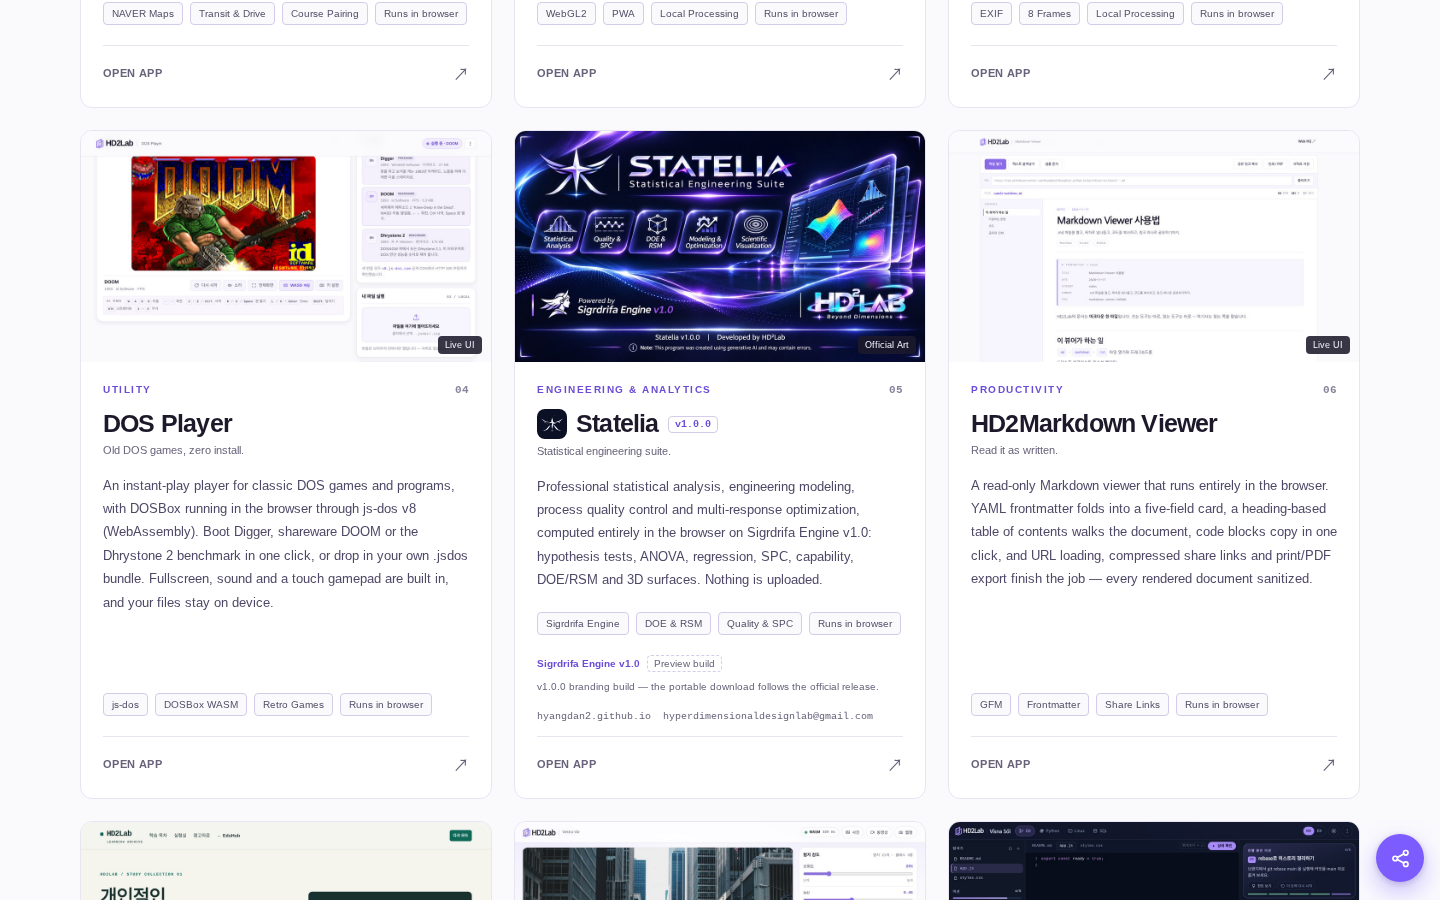
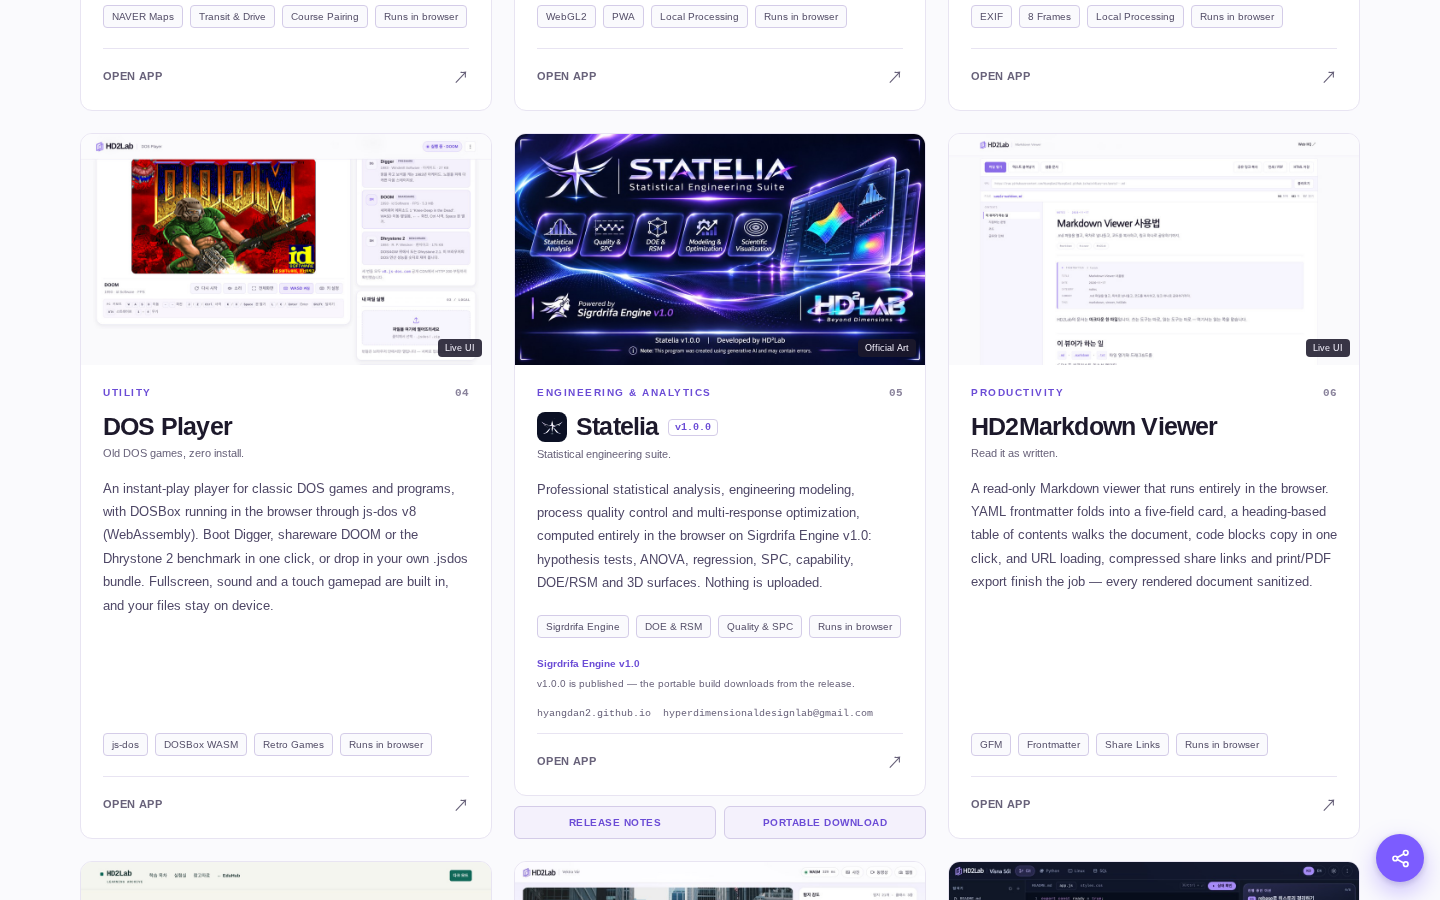
catalog: publish Statelia v1.0.0 as a stable release
The release exists (tag v1.0.0), so the card stops saying 'Preview build' and
links what is actually published: the release notes and the portable ZIP.

An entry with releaseUrl/downloadUrl gets a .card-actions row beside the card —
the card stays one <a>, so nothing is nested — and the eleven entries without
those fields render exactly as before.

diff --git a/tests/browser/hub.spec.js b/tests/browser/hub.spec.js
@@ -38,6 +38,25 @@ test('the card itself is the link and no separate action button remains', async 
   await expect(page).toHaveURL(published[0].launchUrl);
 });
 
+test('a stable release offers its artefacts beside the card, never inside it', async ({ page }) => {
+  await ready(page);
+  const offering = published.filter(app => app.releaseUrl || app.downloadUrl);
+  expect(offering.length).toBeGreaterThan(0);
+  for (const app of offering) {
+    const card = page.locator(`a.app-card[data-app="${app.id}"]`);
+    await expect(card).toHaveCount(1);
+    await expect(card.locator('a')).toHaveCount(0);
+    const shell = page.locator('.card-shell').filter({ has: card });
+    await expect(shell).toHaveCount(1);
+    const actions = shell.locator('.card-action');
+    await expect(actions).toHaveCount((app.releaseUrl ? 1 : 0) + (app.downloadUrl ? 1 : 0));
+    if (app.releaseUrl) await expect(shell.getByRole('link', { name: 'Release notes' })).toHaveAttribute('href', app.releaseUrl);
+    if (app.downloadUrl) await expect(shell.getByRole('link', { name: 'Portable download' })).toHaveAttribute('href', app.downloadUrl);
+  }
+  const statelia = page.locator('.card-shell');
+  await expect(statelia.locator('.app-card[data-app="statelia"] .card-release')).toContainText('v1.0.0 is published');
+});
+
 for (const width of [360, 390, 768, 1440]) {
   test(`layout and assets at ${width}px`, async ({ page }) => {
     await page.setViewportSize({ width, height: 900 });

diff --git a/css/style.css b/css/style.css
@@ -213,6 +213,16 @@ h2 { font-size: 27px; letter-spacing: -1px; margin: 0; line-height: 1.4; }
 .app-card:hover .card-open, .app-card:focus-visible .card-open { color: var(--accent-text); }
 .app-card.unavailable .card-open { color: var(--dim); }
 
+/* WO-BRAND-001 FIX-05: a published release offers its artefacts beside the
+   card, never inside it (the card itself is one link). Cards whose catalogue
+   entry carries no releaseUrl/downloadUrl are appended to the grid directly
+   and keep their previous markup. */
+.card-shell { display: flex; flex-direction: column; min-width: 0; }
+.card-shell > .app-card { flex: 1; }
+.card-actions { display: flex; flex-wrap: wrap; gap: 8px; margin-top: 10px; }
+.card-action { flex: 1 1 120px; text-align: center; padding: 10px 12px; border: 1px solid var(--line-strong); border-radius: 6px; background: var(--panel-soft); color: var(--accent-text); font-size: 10px; font-weight: 700; letter-spacing: .5px; text-transform: uppercase; text-decoration: none; transition: background .15s, color .15s, border-color .15s; }
+.card-action:hover, .card-action:focus-visible { background: var(--accent); border-color: var(--accent); color: #FFFFFF; }
+
 .empty { grid-column: 1 / -1; text-align: center; background: var(--panel); padding: 56px 20px; border: 1px dashed var(--line-strong); border-radius: 10px; }
 .empty-icon { font-size: 38px; color: var(--accent); }
 .empty h3 { font-size: 20px; margin: 10px 0 8px; }

diff --git a/js/app.js b/js/app.js
@@ -107,7 +107,32 @@ function card(app, index) {
   body.append(note);
 
   item.append(picture, body);
-  return item;
+
+  /* WO-BRAND-001 FIX-05 step 5: a published release may point at its own
+     artefacts. The card is itself a link, so these live in an action row
+     beside the card — never inside it — and the card keeps its shape when the
+     two values are absent (every other card renders exactly as before). */
+  const actions = actionRow(app);
+  if (!actions) return item;
+  const shell = element('div', 'card-shell');
+  shell.append(item, actions);
+  return shell;
+}
+
+function actionRow(app) {
+  const links = [];
+  if (safeUrl(app.releaseUrl)) links.push(['Release notes', app.releaseUrl]);
+  if (safeUrl(app.downloadUrl)) links.push(['Portable download', app.downloadUrl]);
+  if (!links.length) return null;
+  const bar = element('div', 'card-actions');
+  for (const [label, href] of links) {
+    const link = element('a', 'card-action', label);
+    link.href = href;
+    link.target = '_blank';
+    link.rel = 'noopener noreferrer';
+    bar.append(link);
+  }
+  return bar;
 }
 
 function renderFilters() {

diff --git a/docs/onboarding/statelia.md b/docs/onboarding/statelia.md
@@ -5,7 +5,7 @@
 - `data/apps.json` → one `statelia` entry (WO-BRAND-001 · WO-B05):
   ID `statelia`, category `Engineering & Analytics`, version `v1.0.0`,
   engine `Sigrdrifa Engine v1.0`, launch `https://hyangdan2.github.io/PKPilot0018/`,
-  repository `HyangDan2/PKPilot0018`, release state `preview`,
+  repository `HyangDan2/PKPilot0018`, release state `stable`,
   home page `https://hyangdan2.github.io/`, contact `hyperdimensionaldesignlab@gmail.com`
   (WO-BRAND-001 FIX-02: the one official enquiry address).
 - `assets/apps/statelia.jpg` — 960×540 card image cropped (no distortion) from the
@@ -13,25 +13,35 @@
 - `assets/apps/statelia-symbol.png` — the official star-and-wings symbol, cropped
   from the same artwork with its background removed (transparent).
 - `schema/apps.schema.json` — additive optional fields `symbol`, `version`,
-  `engine`, `releaseState`, `releaseNote`, `homepageUrl`, `contactEmail`, and
-  `Engineering & Analytics` added to the category enum. Existing entries validate
-  unchanged.
+  `engine`, `releaseState`, `releaseNote`, `releaseUrl`, `downloadUrl`, `homepageUrl`,
+  `contactEmail`, and `Engineering & Analytics` added to the category enum. Existing
+  entries validate unchanged.
 - `js/app.js`, `css/style.css` — the card renders the symbol beside the title,
-  the version and engine, an honest release line, and the official home page and
-  contact as plain text (the card is one link, so no nested anchor is added).
-  No download link is offered because **no release artefact is published yet**
-  (WO-B05 forbids showing Stable/Available for an unpublished release).
+  the version and engine, the release line, and the official home page and contact as
+  plain text (the card is one link, so no nested anchor is added). An entry that
+  carries `releaseUrl` or `downloadUrl` gets a `.card-actions` row **beside** the card
+  (a `.card-shell` wrapper, no nested link); entries without those two fields are
+  appended to the grid exactly as before.
+
+## Release state — v1.0.0 published (2026-11-28)
+
+- Release: https://github.com/HyangDan2/PKPilot0018/releases/tag/v1.0.0
+- Portable download:
+  https://github.com/HyangDan2/PKPilot0018/releases/download/v1.0.0/Statelia-v1.0.0-Portable.zip
+- The card therefore reads `v1.0.0 is published — the portable build downloads from the
+  release.` and offers `Release notes` and `Portable download` in the action row. The
+  `Preview build` text is gone because the release it was describing now exists.
+- The launch URL serves the Statelia build: `main` was merged (PKPilot0018 `905b50b`,
+  corrected at `9c267ff`) and Pages deployed before this card was flipped to `stable`.
 
 ## What is deliberately absent
 
-- **Portable download** — the `Statelia-v1.0.0-Portable.zip` is built and verified
-  on the feature branch but not published; the card says so instead of linking a
-  dead file.
-- The launch URL still serves the previous build until the branding branch is
-  merged and deployed, which is the PO's separate approval (FIX-05 step 1–4).
+- No licence key, account or paywall: the product is a static page and the portable file.
+- No per-app detail page: the card links straight to the product and to its release.
 
 ## Checks
 
     npm run validate   # schema + assets + evidence paths
-    npm test           # catalog behaviour
+    npm test           # catalog behaviour (10)
     npm run build      # dist/ with the new card
+    npm run test:e2e   # Chromium checks (22)

diff --git a/docs/CHANGELOG.md b/docs/CHANGELOG.md
@@ -1,5 +1,20 @@
 # Change log
 
+## 2026-11-28 — Statelia v1.0.0 published: the card goes stable
+
+- `data/apps.json`: `statelia` moves from `preview` to `stable` now that the release
+  exists. `releaseNote` reads `v1.0.0 is published — the portable build downloads from the
+  release.`, and the entry gains `releaseUrl`
+  (`https://github.com/HyangDan2/PKPilot0018/releases/tag/v1.0.0`) and `downloadUrl`
+  (`…/releases/download/v1.0.0/Statelia-v1.0.0-Portable.zip`).
+- `schema/apps.schema.json`: optional `releaseUrl`, `downloadUrl` (both `^https://`).
+  `scripts/validate-catalog.mjs` rejects an unsafe value for either.
+- `js/app.js` / `css/style.css`: an entry that carries either URL gets a `.card-actions`
+  row of links **beside** the card — the card itself stays one `<a>`, so no link is
+  nested. Entries without the two fields render exactly as before (11 of 12 cards are
+  byte-for-byte the same markup).
+- `docs/onboarding/statelia.md`: the release URLs, the stable state and the action row.
+
 ## 2026-11-28 — Statelia registered (PKPilot0018)
 
 - `data/apps.json`: new entry `statelia` — Statelia v1.0.0, category `Engineering & Analytics`,
